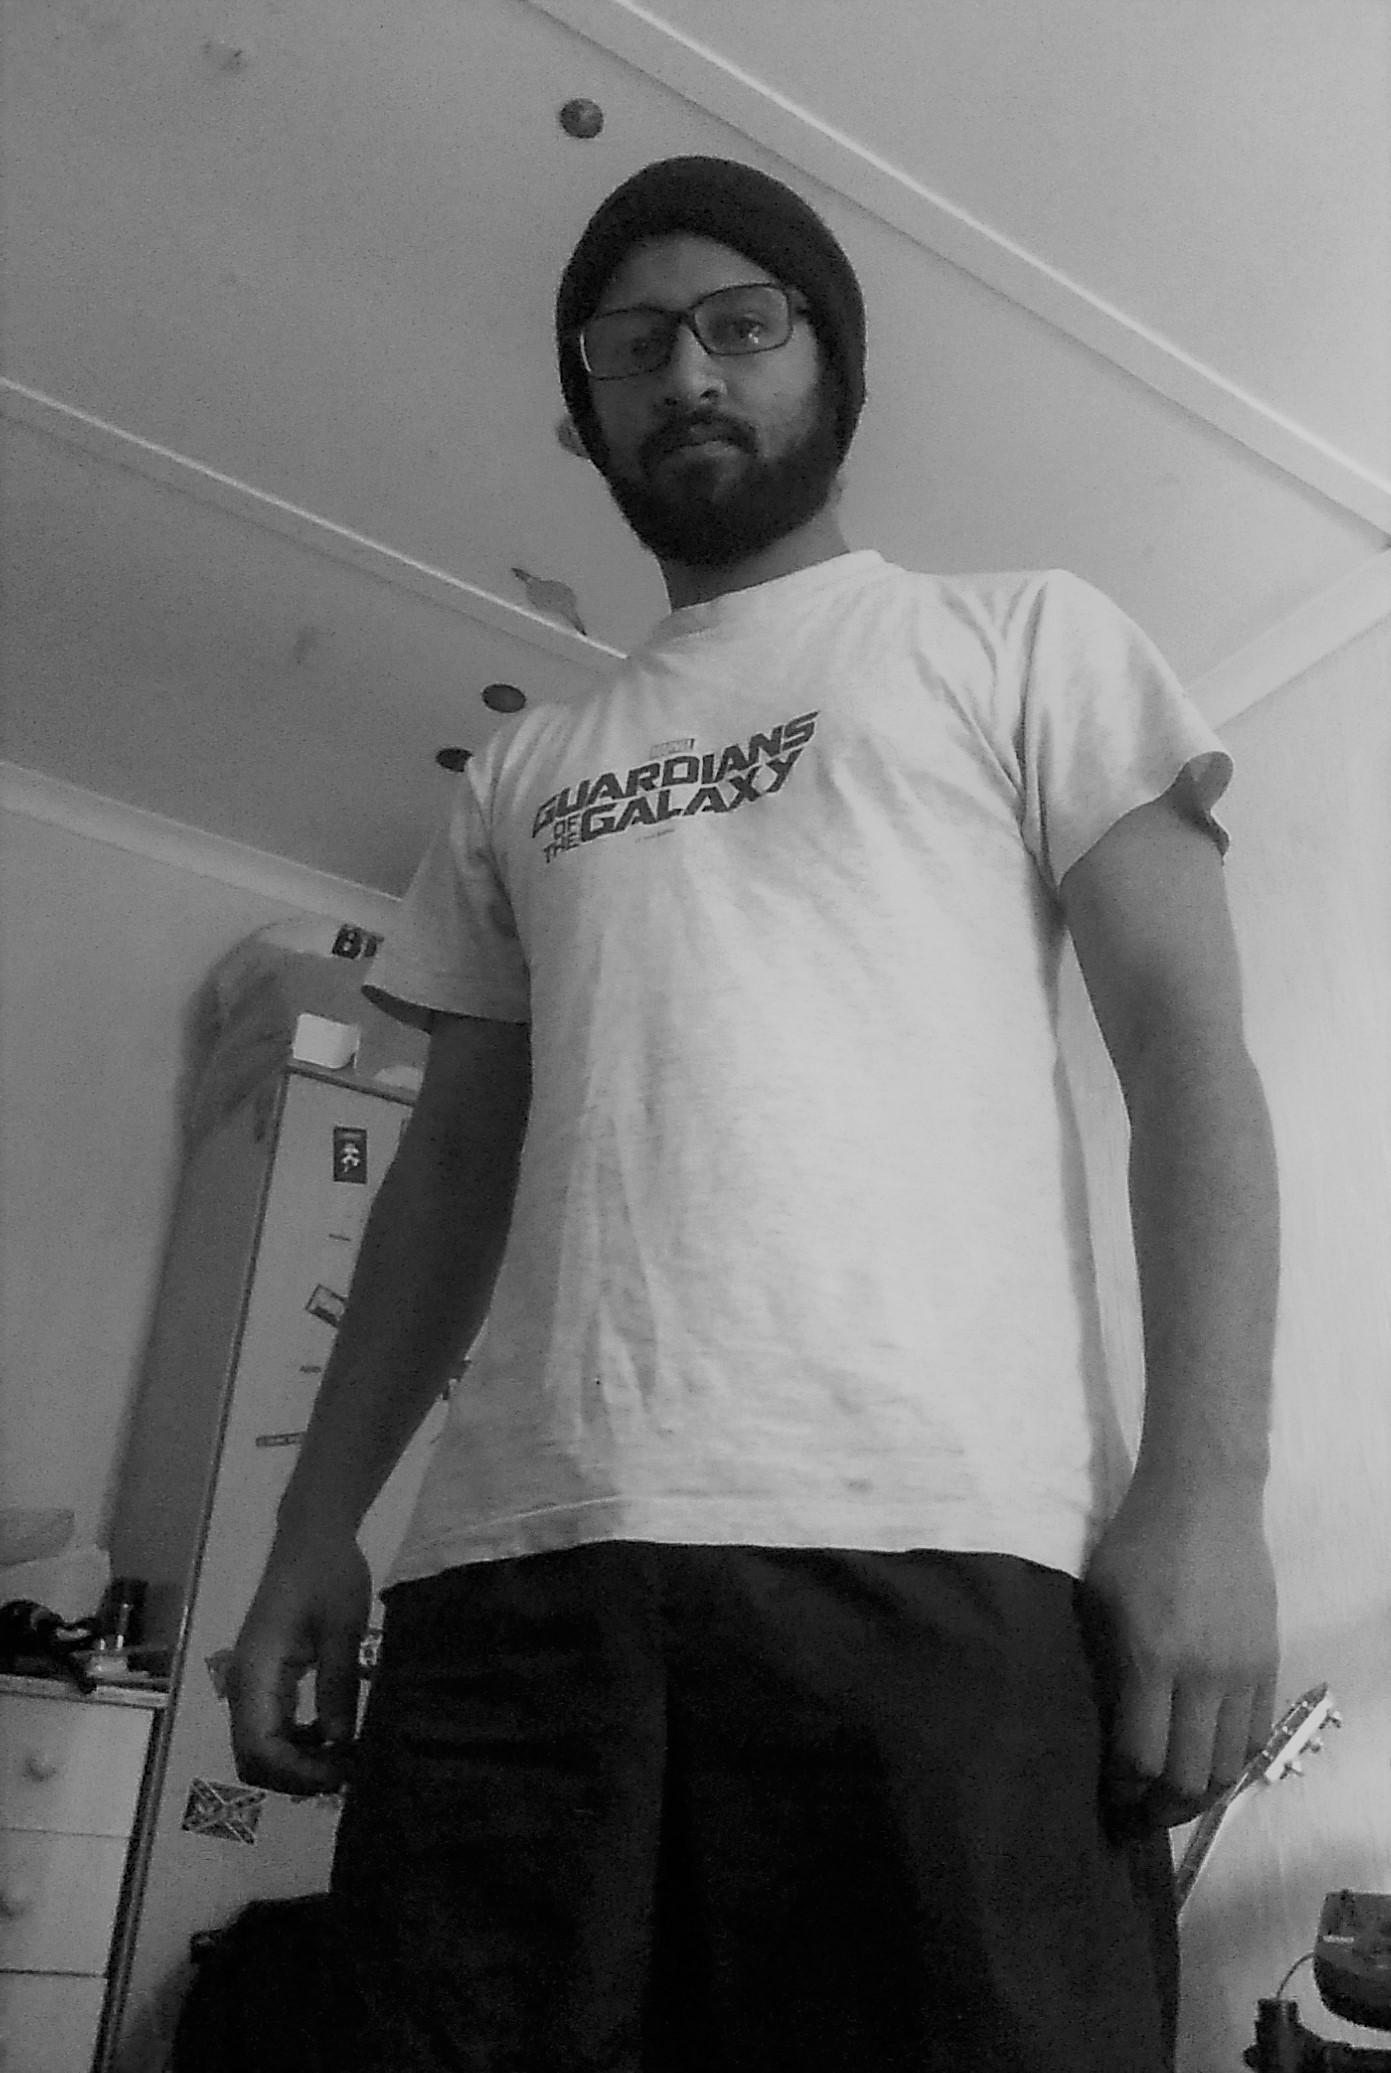
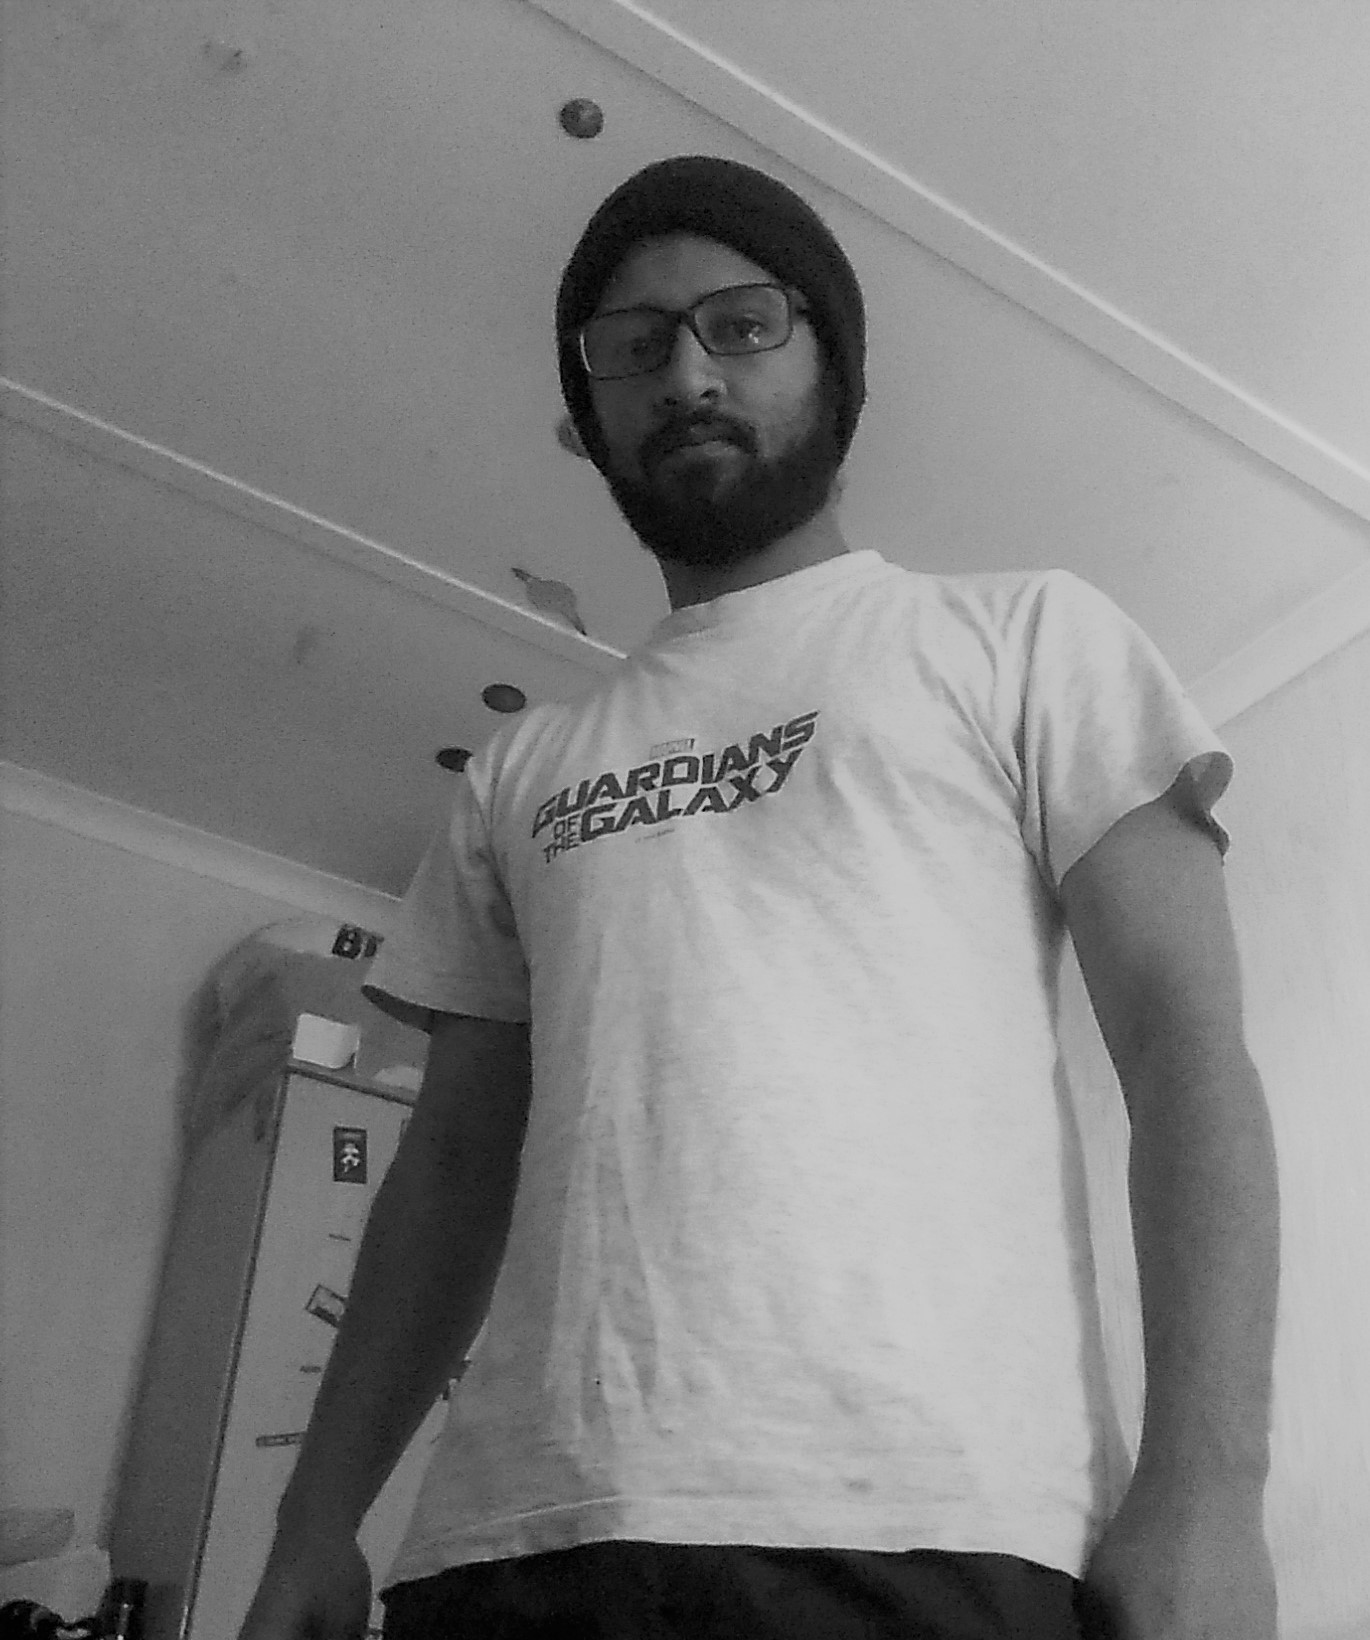
updated pic and sizes

diff --git a/index.html b/index.html
@@ -53,9 +53,9 @@
         <aside>
             <!--Main page Image-->
             <picture>
-                <source media="(max-width: 650px)" srcset="images/colour_crop2.jpg" width="420" height="380">
-                <source media="(max-width: 1000px)" srcset="images/colour_crop.jpg" width="550" height="380">
-                <img src="images/colour_crop1.jpg" alt="clinton standing there" width="420" height="380">
+                <source media="(max-width: 650px)" srcset="images/BnW_Room_Small.jpg" width="420" height="380">
+                <source media="(max-width: 1000px)" srcset="images/BnW_Room_Mid.jpg" width="420" height="380">
+                <img src="images/BnW_Room_Full.jpg" alt="clinton standing there" width="420" height="380">
             </picture>
             <!-- Modal Start-->
             <div class="jumbotron">

diff --git a/experience.html b/experience.html
@@ -54,9 +54,9 @@
     <!--Linked Images-->
     <aside>
         <picture>
-            <source media="(max-width: 650px)" srcset="images/colour_crop2.jpg" width="420" height="380">
-            <source media="(max-width: 1000px)" srcset="images/colour_crop.jpg" width="550" height="380">
-            <img src="images/colour_crop1.jpg" alt="clinton standing there" width="420" height="380">
+            <source media="(max-width: 650px)" srcset="images/BnW_Room_Small.jpg" width="420" height="380">
+            <source media="(max-width: 1000px)" srcset="images/BnW_Room_Mid.jpg" width="420" height="380">
+            <img src="images/BnW_Room_Full.jpg" alt="clinton standing there" width="420" height="380">
         </picture>
     </aside>
     <!--Work Experience Details Start-->

diff --git a/skills.html b/skills.html
@@ -55,9 +55,9 @@
     <!--Start of header-->
     <aside>
         <picture>
-            <source media="(max-width: 650px)" srcset="images/colour_crop2.jpg" width="420" height="380">
-            <source media="(max-width: 1000px)" srcset="images/colour_crop.jpg" width="550" height="380">
-            <img src="images/colour_crop1.jpg" alt="clinton standing there" width="420" height="380">
+            <source media="(max-width: 650px)" srcset="images/BnW_Room_Small.jpg" width="420" height="380">
+            <source media="(max-width: 1000px)" srcset="images/BnW_Room_Mid.jpg" width="420" height="380">
+            <img src="images/BnW_Room_Full.jpg" alt="clinton standing there" width="420" height="380">
         </picture>
     </aside>
     <!--Start Of Skills Section-->

diff --git a/contact.html b/contact.html
@@ -54,9 +54,9 @@
     </navbar>
     <aside>
         <picture>
-            <source media="(max-width: 650px)" srcset="images/colour_crop2.jpg" width="420" height="380">
-            <source media="(max-width: 1000px)" srcset="images/colour_crop.jpg" width="550" height="380">
-            <img src="images/colour_crop1.jpg" alt="clinton standing there" width="420" height="380">
+            <source media="(max-width: 650px)" srcset="images/BnW_Room_Small.jpg" width="420" height="380">
+            <source media="(max-width: 1000px)" srcset="images/BnW_Room_Mid.jpg" width="420" height="380">
+            <img src="images/BnW_Room_Full.jpg" alt="clinton standing there" width="420" height="380">
         </picture>
     </aside>
     <div>

diff --git a/education.html b/education.html
@@ -51,9 +51,9 @@
         </nav>
     <aside>
         <picture>
-            <source media="(max-width: 650px)" srcset="images/colour_crop2.jpg" width="420" height="380">
-            <source media="(max-width: 1000px)" srcset="images/colour_crop.jpg" width="550" height="380">
-            <img src="images/colour_crop1.jpg" alt="clinton standing there" width="420" height="380">
+            <source media="(max-width: 650px)" srcset="images/BnW_Room_Small.jpg" width="420" height="380">
+            <source media="(max-width: 1000px)" srcset="images/BnW_Room_Mid.jpg" width="420" height="380">
+            <img src="images/BnW_Room_Full.jpg" alt="clinton standing there" width="420" height="380">
         </picture>
     </aside>
 
